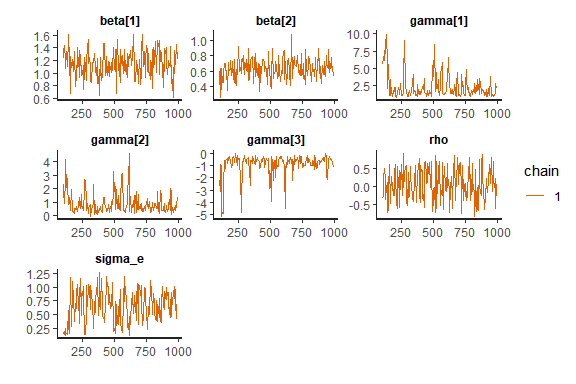
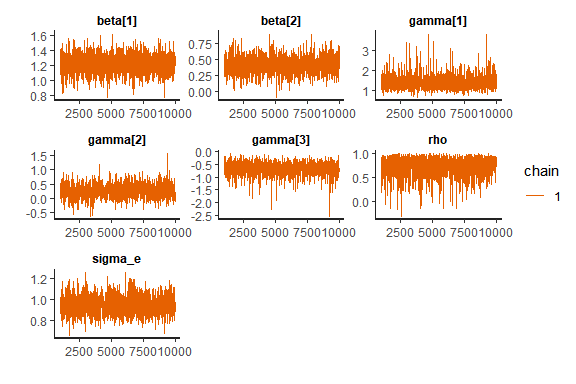
update

diff --git a/README.md b/README.md
@@ -7,14 +7,8 @@
 
 The Heckman selection model is widely employed in econometric analysis
 and other social sciences, to address sample selection issues in data
-modeling. Its fundamental assumption hinges on the normality of error
-terms in both the outcome and the sample selection equations.
-
-In this work, we explore these selection models using a Bayesian
-approach facilitated by the Stan software. Our objective is to compare
-the performance of the normal, Student’s-t and contaminated normal,
-aiming to address the complexities introduced by non-standard error
-distributions.
+modeling. In this work, we explore these selection models using a
+Bayesian approach facilitated by the Stan software.
 
 <!--For more information about the model formulation and estimation, please see
 Schumacher, F. L., Lachos, V. H., and Matos, L. A. (2021). Scale mixture of skew‐normal linear mixed models with within‐subject serial dependence. *Statistics in Medicine*. DOI: [10.1002/sim.8870](https://doi.org/10.1002/sim.8870).-->
@@ -29,12 +23,49 @@ You can install HeckmanStan from GitHub with:
 remotes::install_github("heeju-lim/HeckmanStan")
 ```
 
-Or you can install the released version of skewlmm from
-[CRAN](https://CRAN.R-project.org) with:
+\[Available Soon\] Or you can install the released version of
+HeckmanStan from [CRAN](https://CRAN.R-project.org) with:
 
 ``` r
 install.packages("HeckmanStan")
 ```
+
+## Basic Features HeckmanStan()
+
+The package contains main function named HeckmanStan().
+
+``` r
+Fit <- HeckmanStan(y, x, w, cc, family = "CN", thin = 5, init = "random", chains = 1, iter = 10, warmup = 5)
+```
+
+- y : A response vector.
+
+- x : A covariate matrix for the response y.
+
+- w : A covariate matrix for the missing indicator cc.
+
+- cc :A missing indicator vector (1=observed, 0=missing) .
+
+- family: The family to be used (Normal, T or CN).
+
+- init : Parameters specifies the initial values for model parameters.
+
+- thin : An Interval at which samples are retained from the MCMC process
+  to reduce autocorrelation.
+
+- chains : The number of chains to run during the MCMC sampling. Running
+  multiple chains is useful for checking convergence.
+
+- iter : The total number of iterations for the MCMC sampling,
+  determining how many samples will be drawn.
+
+- warmup : The number of initial iterations that will be discarded as
+  the algorithm stabilizes before collecting samples.
+
+Fit\[\[1\]\] contains the inference of Stan model and EAIC and EBIC.
+
+Fit\[\[2\]\] contains the HPC confidence interval and Looic, WAIC, and
+CPO.
 
 ## Example
 
@@ -57,69 +88,55 @@ data<-geraHeckman(x,w,beta,gama,sigma2,rho,nu,type=type)
 y<-data$y
 cc<-data$cc
 # Fit Heckman Normal Stan model
-fit.n_stan <- HeckmanStan(y, x, w, cc, family="CN", thin = 5, chains = 1, iter = 1000, warmup = 100)
+fit.n_stan <- HeckmanStan(y, x, w, cc, family="CN", thin = 5, chains = 1, iter = 10000, warmup = 1000)
 #> 
 #> SAMPLING FOR MODEL 'anon_model' NOW (CHAIN 1).
+#> Chain 1: Rejecting initial value:
+#> Chain 1:   Log probability evaluates to log(0), i.e. negative infinity.
+#> Chain 1:   Stan can't start sampling from this initial value.
 #> Chain 1: 
-#> Chain 1: Gradient evaluation took 0.000162 seconds
-#> Chain 1: 1000 transitions using 10 leapfrog steps per transition would take 1.62 seconds.
+#> Chain 1: Gradient evaluation took 0.00016 seconds
+#> Chain 1: 1000 transitions using 10 leapfrog steps per transition would take 1.6 seconds.
 #> Chain 1: Adjust your expectations accordingly!
 #> Chain 1: 
 #> Chain 1: 
-#> Chain 1: WARNING: There aren't enough warmup iterations to fit the
-#> Chain 1:          three stages of adaptation as currently configured.
-#> Chain 1:          Reducing each adaptation stage to 15%/75%/10% of
-#> Chain 1:          the given number of warmup iterations:
-#> Chain 1:            init_buffer = 15
-#> Chain 1:            adapt_window = 75
-#> Chain 1:            term_buffer = 10
+#> Chain 1: Iteration:    1 / 10000 [  0%]  (Warmup)
+#> Chain 1: Iteration: 1000 / 10000 [ 10%]  (Warmup)
+#> Chain 1: Iteration: 1001 / 10000 [ 10%]  (Sampling)
+#> Chain 1: Iteration: 2000 / 10000 [ 20%]  (Sampling)
+#> Chain 1: Iteration: 3000 / 10000 [ 30%]  (Sampling)
+#> Chain 1: Iteration: 4000 / 10000 [ 40%]  (Sampling)
+#> Chain 1: Iteration: 5000 / 10000 [ 50%]  (Sampling)
+#> Chain 1: Iteration: 6000 / 10000 [ 60%]  (Sampling)
+#> Chain 1: Iteration: 7000 / 10000 [ 70%]  (Sampling)
+#> Chain 1: Iteration: 8000 / 10000 [ 80%]  (Sampling)
+#> Chain 1: Iteration: 9000 / 10000 [ 90%]  (Sampling)
+#> Chain 1: Iteration: 10000 / 10000 [100%]  (Sampling)
 #> Chain 1: 
-#> Chain 1: Iteration:   1 / 1000 [  0%]  (Warmup)
-#> Chain 1: Iteration: 100 / 1000 [ 10%]  (Warmup)
-#> Chain 1: Iteration: 101 / 1000 [ 10%]  (Sampling)
-#> Chain 1: Iteration: 200 / 1000 [ 20%]  (Sampling)
-#> Chain 1: Iteration: 300 / 1000 [ 30%]  (Sampling)
-#> Chain 1: Iteration: 400 / 1000 [ 40%]  (Sampling)
-#> Chain 1: Iteration: 500 / 1000 [ 50%]  (Sampling)
-#> Chain 1: Iteration: 600 / 1000 [ 60%]  (Sampling)
-#> Chain 1: Iteration: 700 / 1000 [ 70%]  (Sampling)
-#> Chain 1: Iteration: 800 / 1000 [ 80%]  (Sampling)
-#> Chain 1: Iteration: 900 / 1000 [ 90%]  (Sampling)
-#> Chain 1: Iteration: 1000 / 1000 [100%]  (Sampling)
+#> Chain 1:  Elapsed Time: 1.396 seconds (Warm-up)
+#> Chain 1:                11.591 seconds (Sampling)
+#> Chain 1:                12.987 seconds (Total)
 #> Chain 1: 
-#> Chain 1:  Elapsed Time: 0.593 seconds (Warm-up)
-#> Chain 1:                4.427 seconds (Sampling)
-#> Chain 1:                5.02 seconds (Total)
-#> Chain 1:
-#> Warning: Bulk Effective Samples Size (ESS) is too low, indicating posterior means and medians may be unreliable.
-#> Running the chains for more iterations may help. See
-#> https://mc-stan.org/misc/warnings.html#bulk-ess
-#> Warning: Tail Effective Samples Size (ESS) is too low, indicating posterior variances and tail quantiles may be unreliable.
-#> Running the chains for more iterations may help. See
-#> https://mc-stan.org/misc/warnings.html#tail-ess
 #> 
 #> -------------------------------------------------------------
 #> Posterior mean(Mean), standard deviation(Sd) and HPD interval
 #> -------------------------------------------------------------
 #>              Mean      Sd  HPD(95%) Lower Upper Bound
-#> beta[1]   1.15803 0.22358         0.73111     1.53031
-#> beta[2]   0.63394 0.13277         0.41140     0.92528
-#> gamma[1]  2.30231 1.73986         0.74348     6.12170
-#> gamma[2]  0.89811 0.77234         0.05389     2.76841
-#> gamma[3] -0.88789 0.87965        -2.64648     0.02011
-#> rho       0.08073 0.43909        -0.69911     0.79715
-#> sigma_e   0.64649 0.29600         0.11695     1.10297
-#> nu1       0.67827 0.26744         0.09339     0.97853
-#> nu2       0.31764 0.26484         0.01145     0.86242
-#> sigma2    0.50512 0.38861         0.01368     1.21655
+#> beta[1]   1.21401 0.11815         0.98264     1.43754
+#> beta[2]   0.40689 0.13689         0.14507     0.64953
+#> gamma[1]  1.40562 0.33846         0.87923     2.07404
+#> gamma[2]  0.25034 0.22668        -0.15919     0.71281
+#> gamma[3] -0.66434 0.23683        -1.11888    -0.23970
+#> rho       0.74702 0.18564         0.37917     0.99399
+#> sigma_e   0.94611 0.08589         0.79208     1.12578
+#> nu1       0.06450 0.04831         0.01002     0.15083
+#> nu2       0.03786 0.02506         0.01001     0.08638
+#> sigma2    0.90249 0.16518         0.59309     1.22163
 #> -------------------------------------------------------------
-#> Warning: Some Pareto k diagnostic values are too high. See help('pareto-k-diagnostic') for details.
-#> Warning: 
-#> 2 (2.0%) p_waic estimates greater than 0.4. We recommend trying loo instead.
 #> Model selection criteria
 #> ----------------------------------------
-#>         Looic    WAIC       CPO
-#> Value 336.628 336.469 -168.4161
+#>          Looic     WAIC      CPO
+#> Value 317.5921 316.3856 -159.264
 #> ----------------------------------------
 #> 
 ```
@@ -128,22 +145,22 @@ fit.n_stan <- HeckmanStan(y, x, w, cc, family="CN", thin = 5, chains = 1, iter =
 qoi=c("beta","gamma","sigma_e","sigma2", "rho","EAIC","EBIC")
 print(fit.n_stan[[1]],par=qoi)
 #> Inference for Stan model: anon_model.
-#> 1 chains, each with iter=1000; warmup=100; thin=5; 
-#> post-warmup draws per chain=180, total post-warmup draws=180.
+#> 1 chains, each with iter=10000; warmup=1000; thin=5; 
+#> post-warmup draws per chain=1800, total post-warmup draws=1800.
 #> 
 #>            mean se_mean   sd   2.5%    25%    50%    75%  97.5% n_eff Rhat
-#> beta[1]    1.15    0.02 0.21   0.74   1.01   1.15   1.31   1.52   142 1.00
-#> beta[2]    0.63    0.01 0.13   0.40   0.55   0.64   0.71   0.89   202 1.01
-#> gamma[1]   2.27    0.25 1.76   0.88   1.18   1.60   2.58   7.82    49 1.02
-#> gamma[2]   0.89    0.09 0.77   0.17   0.39   0.64   1.06   2.94    72 1.00
-#> gamma[3]  -0.89    0.11 0.91  -4.31  -0.99  -0.62  -0.45  -0.16    67 1.02
-#> sigma_e    0.65    0.03 0.29   0.14   0.41   0.67   0.90   1.17    78 1.00
-#> sigma2     0.51    0.04 0.39   0.02   0.17   0.45   0.80   1.36    92 0.99
-#> rho        0.08    0.03 0.44  -0.70  -0.25   0.07   0.47   0.79   168 1.00
-#> EAIC     345.81    0.30 3.51 340.83 343.31 345.24 347.54 353.62   135 1.00
-#> EBIC     369.26    0.30 3.51 364.27 366.76 368.68 370.99 377.07   135 1.00
+#> beta[1]    1.21    0.00 0.12   0.98   1.14   1.21   1.29   1.44  1736    1
+#> beta[2]    0.41    0.00 0.13   0.16   0.32   0.41   0.49   0.66  1721    1
+#> gamma[1]   1.41    0.01 0.34   0.93   1.20   1.35   1.56   2.27  1488    1
+#> gamma[2]   0.26    0.01 0.23  -0.16   0.11   0.25   0.39   0.71  1780    1
+#> gamma[3]  -0.67    0.01 0.24  -1.21  -0.79  -0.64  -0.51  -0.28  1570    1
+#> sigma_e    0.94    0.00 0.09   0.79   0.89   0.94   1.00   1.12  1724    1
+#> sigma2     0.90    0.00 0.16   0.62   0.78   0.88   1.00   1.26  1698    1
+#> rho        0.75    0.00 0.19   0.24   0.67   0.79   0.88   0.96  1536    1
+#> EAIC     325.66    0.12 5.16 318.10 321.85 324.76 328.60 337.94  1848    1
+#> EBIC     349.11    0.12 5.16 341.55 345.30 348.21 352.04 361.39  1848    1
 #> 
-#> Samples were drawn using NUTS(diag_e) at Tue Oct 22 18:42:58 2024.
+#> Samples were drawn using NUTS(diag_e) at Fri Nov  1 13:33:12 2024.
 #> For each parameter, n_eff is a crude measure of effective sample size,
 #> and Rhat is the potential scale reduction factor on split chains (at 
 #> convergence, Rhat=1).
@@ -152,51 +169,34 @@ print(fit.n_stan[[1]],par=qoi)
 ``` r
 print(fit.n_stan[[2]])
 #> [[1]]
-#>                 Mean        Sd  HPD(95%) Lower Upper Bound
-#> beta[1]   1.15803223 0.2235762      0.73111230  1.53030916
-#> beta[2]   0.63394482 0.1327733      0.41139882  0.92528251
-#> gamma[1]  2.30231085 1.7398601      0.74347670  6.12169712
-#> gamma[2]  0.89811077 0.7723436      0.05388669  2.76840545
-#> gamma[3] -0.88789374 0.8796487     -2.64647972  0.02010856
-#> rho       0.08072884 0.4390871     -0.69910687  0.79715153
-#> sigma_e   0.64648861 0.2959963      0.11695382  1.10297448
-#> nu1       0.67826543 0.2674404      0.09338587  0.97852764
-#> nu2       0.31763765 0.2648374      0.01144771  0.86242433
-#> sigma2    0.50512327 0.3886078      0.01367819  1.21655269
+#>                 Mean         Sd  HPD(95%) Lower Upper Bound
+#> beta[1]   1.21401094 0.11814762      0.98263649  1.43754095
+#> beta[2]   0.40688759 0.13689169      0.14506798  0.64953153
+#> gamma[1]  1.40562284 0.33846174      0.87923184  2.07404013
+#> gamma[2]  0.25033910 0.22667517     -0.15919142  0.71281078
+#> gamma[3] -0.66433824 0.23682703     -1.11888309 -0.23970452
+#> rho       0.74701942 0.18564096      0.37917493  0.99398854
+#> sigma_e   0.94610624 0.08589278      0.79208339  1.12577878
+#> nu1       0.06449536 0.04831229      0.01002479  0.15083094
+#> nu2       0.03785999 0.02505889      0.01000995  0.08637778
+#> sigma2    0.90249089 0.16518206      0.59309081  1.22163110
 #> 
 #> [[2]]
-#>         Looic    WAIC       CPO
-#> Value 336.628 336.469 -168.4161
+#>          Looic     WAIC      CPO
+#> Value 317.5921 316.3856 -159.264
 ```
 
 ``` r
 
 # Plots for stanfit objects : 
 library(rstan)
-#> 필요한 패키지를 로딩중입니다: StanHeaders
-#> 
-#> rstan version 2.32.6 (Stan version 2.32.2)
-#> For execution on a local, multicore CPU with excess RAM we recommend calling
-#> options(mc.cores = parallel::detectCores()).
-#> To avoid recompilation of unchanged Stan programs, we recommend calling
-#> rstan_options(auto_write = TRUE)
-#> For within-chain threading using `reduce_sum()` or `map_rect()` Stan functions,
-#> change `threads_per_chain` option:
-#> rstan_options(threads_per_chain = 1)
-#> Do not specify '-march=native' in 'LOCAL_CPPFLAGS' or a Makevars file
-```
-
-``` r
 plot(fit.n_stan[[1]], pars=c("beta[1]","beta[2]", "gamma[1]", "gamma[2]", "gamma[3]", "rho", "sigma_e"))
-#> ci_level: 0.8 (80% intervals)
-#> outer_level: 0.95 (95% intervals)
 ```
 
 <img src="man/figures/README-example1-1.png" width="70%" style="display: block; margin: auto;" />
 
 ``` r
 plot(fit.n_stan[[1]], plotfun="hist", pars=c("beta[1]","beta[2]", "gamma[1]", "gamma[2]", "gamma[3]", "rho", "sigma_e"))
-#> `stat_bin()` using `bins = 30`. Pick better value with `binwidth`.
 ```
 
 <img src="man/figures/README-example1-2.png" width="70%" style="display: block; margin: auto;" />
